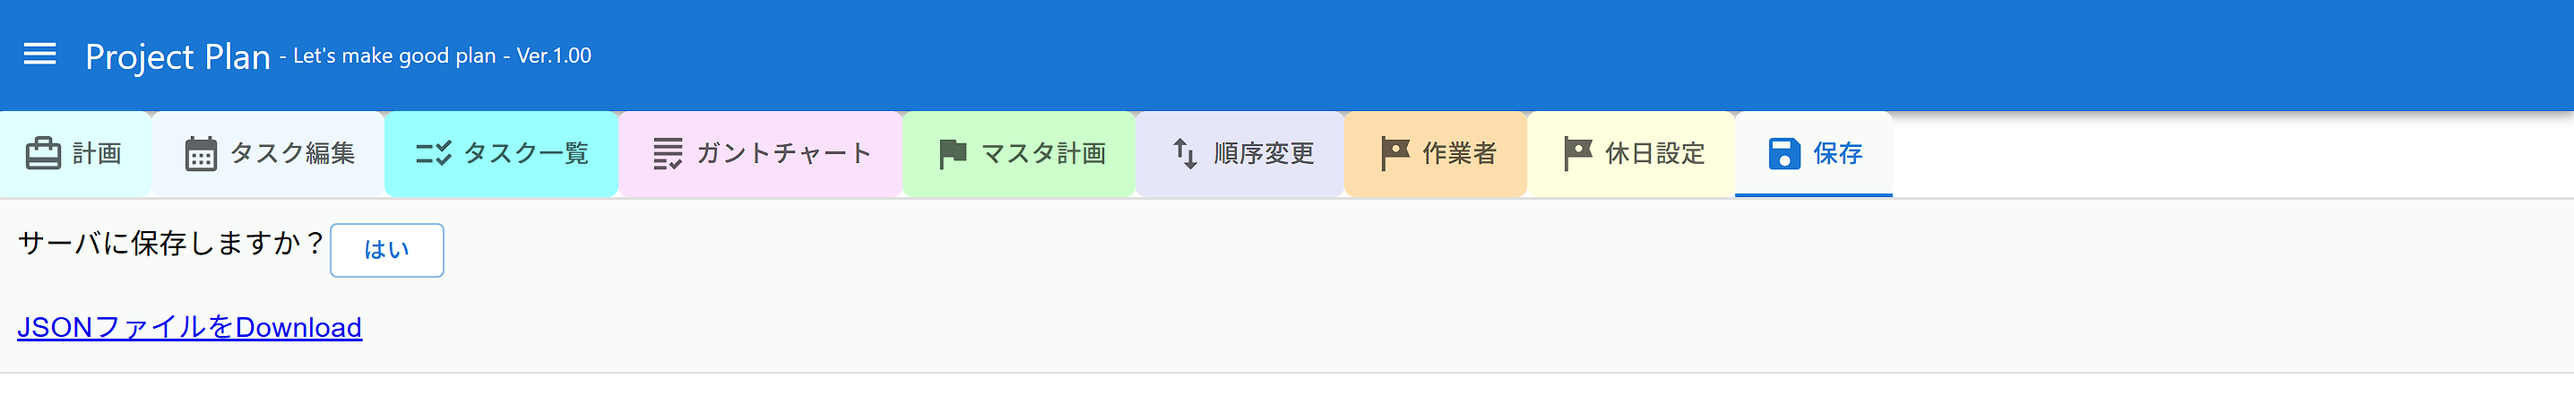
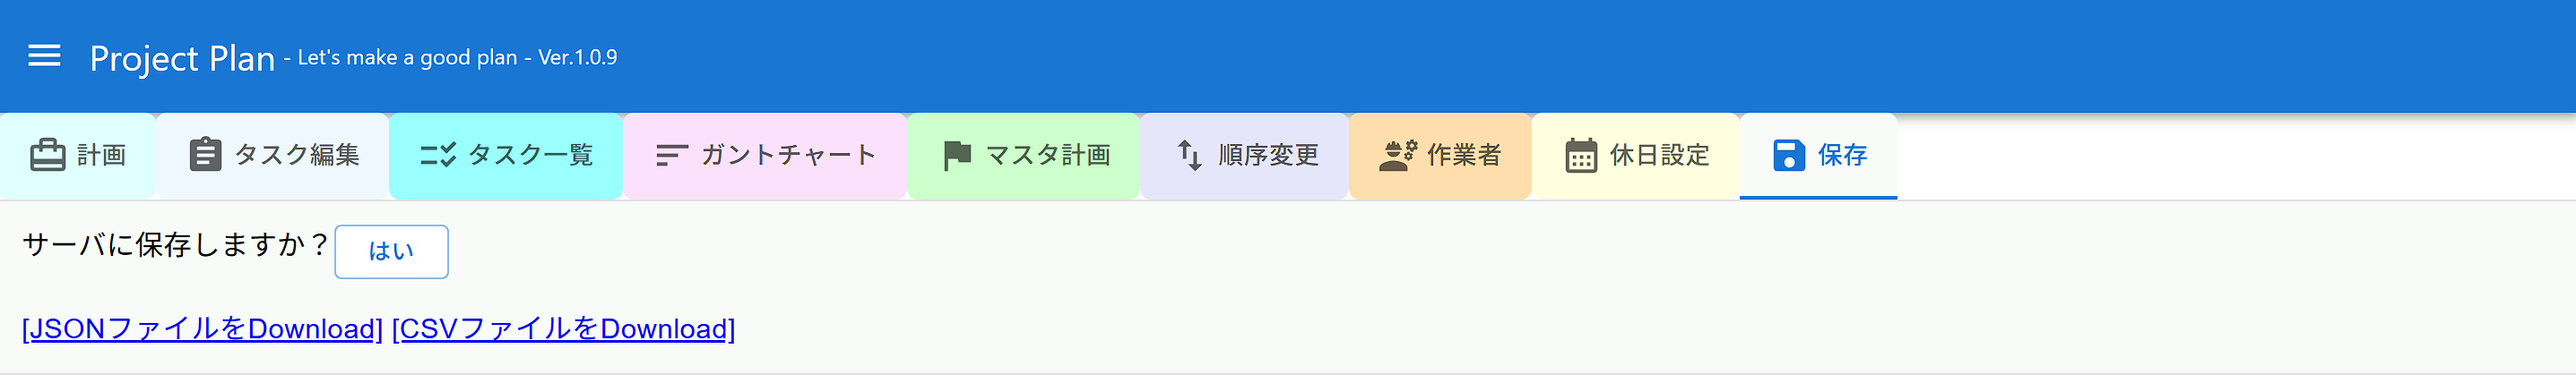
- ドキュメント更新

diff --git a/frontend/src/lib/Task.ts b/frontend/src/lib/Task.ts
@@ -980,7 +980,7 @@ export class CTask implements ITask {
      */
     public setDateNormal() {
         if (this.start_date_auto == "normal") {
-            this.end_date2 = this._getDateOfDuration(new Date(this.start_date),this.duration,"add1base");
+            this.end_date2 = this._getDateOfDuration(new Date(this.start_date),this.duration,"add1base",this.type);
             this.end_date = toDateString(this.end_date2);
         }
     }
@@ -991,7 +991,7 @@ export class CTask implements ITask {
     public setDatePre(pre_task:CTask) {
         if (this.start_date_auto == "pre") {
             if (pre_task.level == LEVEL.NORMAL) {
-                this.start_date2 = this._getDateOfDuration(pre_task.end_date2,1,"add");
+                this.start_date2 = this._getDateOfDuration(pre_task.end_date2,1,"add",this.type);
                 this.end_date2 =  this._getDateOfDuration(this.start_date2,this.duration,"add1base",this.type);
                 this.start_date = toDateString(this.start_date2);
                 this.end_date = toDateString(this.end_date2);

diff --git a/doc/manual.md b/doc/manual.md
@@ -78,20 +78,30 @@
     Alias /projectplan/ "/home/hoge/projectplan/public"
     <Directory "/home/hoge/projectplan/public">
         Require all granted
+        AllowOverride FileInfo Indexes
     </Directory>
     ```
+- rewriteモジュールを有効にする
 - apacheの変更を有効にする
     ```
     # apachectl greceful
     ```
 
+### ブラウザで開く
+- ブラウザで開く
+    ```
+    http://my.hoge.net/projectplan/
+    ```
+- 参考にパッケージに含まれるsample.jsonを読み込んで開いてみる
+
 ## 操作説明
 
-### プロジェクト選択
+### ファイル選択
 ![load](./img/pm_load.png)
 - 新規作成する場合はテンプレートをクリックする
 - JSONファイルを読み込むこともできる
 - CSVファイルからタスク情報を読み込み作成できる
+　- [CSVファイルフォーマット](./csv_import.md)
 - 保存済みファイルはリストから選択する
   - ステータスにより分類されリストされる
 - ファイルの削除する場合は削除アイコンをクリックする
@@ -101,15 +111,20 @@
 - 基本情報を設定する
 - ファイル名
   - 保存するファイル名。変更すると別名で保存される
+- ステータス
+  - プロジェクト選択画面でステータスごとに表示される
 - マスター
   - 他のプロジェクトファイルをマスター計画に指定する
   - 指定されたファイルのタイプにMS（MileStone）指定されたタスクのみ読み込まれリンクできる
 - チケットURL
   - チケットへのリンクを生成するベースとなるURLを指定する
+- 旧バージョン
+  - バージョンを指定してLOADをクリックすると旧バージョンを開ける
+  - ただし、参照のみで保存はできない
 
 ### タスク編集
 ![taskedit](./img/pm_taskedit.png)
-- タスクの編集画面で、編集したい行をダブルクリックすると編集モードになる
+- タスクの編集画面で、編集したい行をダブルクリックやENTERで編集モードになる。再度、ENTERで編集モード終わる
 - 各項目の詳細は編集モーダルの説明を参照
 
 ![taskedit2](./img/pm_taskedit2.png)
@@ -164,6 +179,8 @@
 ![taskview](./img/pm_taskview.png)
 - タスク定義の情報を一覧表示する
 - 編集アイコン（ペンのアイコン）をクリックすると、編集モーダルも表示され編集できる
+- TOP/SUBのタスクは閉じる／開くことができる
+  - 閉じた状態はガントチャートにも反映される
 
 ### ガントチャート
 ![ganttchart](./img/pm_ganttchart.png)
@@ -172,6 +189,8 @@
 - テーブル部をクリックするとタスク編集モーダルが表示される
 - 月、週、日は表示単位を切り替えるボタン
 - 標準、狭いは列の幅を指定する
+- グループのタスクを横に並べて表示する
+![ganttchart](./img/pm_ganttchart2.png)
 
 ### マスターマイルストン
 ![master](./img/pm_master.png)
@@ -197,3 +216,5 @@
 - 保存するとサーバにデータが保存される
 - 編集中に他のユーザーが変更したら、保存できない
   - その場合はファイル名を変更して保存するなどする
+- JSONファイルのダウンロード、CSVファイルのダウンロードも可能。
+

diff --git a/doc/csv_import.md b/doc/csv_import.md
@@ -1,0 +1,43 @@
+# CSVファイルのインポート
+## ファイル形式
+- 基本的にはCSVダウンロードの形式でインポートする
+
+|id|start_date_auto|start_date|end_date|duration|type|name|master_milestone|worker|memo|level|progress|ticket_no|link_type|link_id|
+| -- | -- | -- | -- | -- | -- | -- | -- | -- | -- | -- | -- | -- | -- | -- |
+|1|startend|2026-02-01|2027-03-01|1|normal|計画||||1|0|||
+|6|normal|2026-02-01|2026-02-28|28|fulltime|計画立案||||99|0||||
+
+- ただし、読み込まれるカラムは以下のカラムのみである。
+  - start_date_auto
+    - 以下の値のみ有効
+      - normal: 通常
+      - startend: 固定
+      - pre: 前
+      - post: 後
+    - start_date
+      - 開始日
+      - YYYY-MM-DD形式かYYYY/MM/DD形式で指定する
+    - end_date
+      - 開始日
+      - YYYY-MM-DD形式かYYYY/MM/DD形式で指定する
+    - duration
+      - 日数
+      - 数字のみ指定可能
+    - type
+      - タイプ
+        - normal: 通常 
+        - milestone: MS
+        - fulltime: 休日稼働
+      - タスク名
+    - memo
+      - 備考
+    - level
+      - レベル
+      - 以下のあ愛のみ有効
+        1: TOP
+        2: SUB
+        99: 通常
+    - progress
+    - ticket_no
+- インポート時に無効な値を含む行は無視される
+
